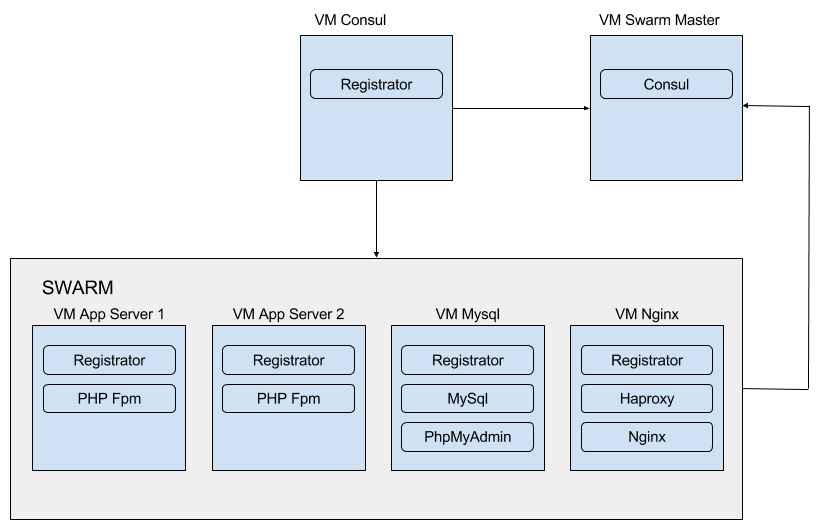
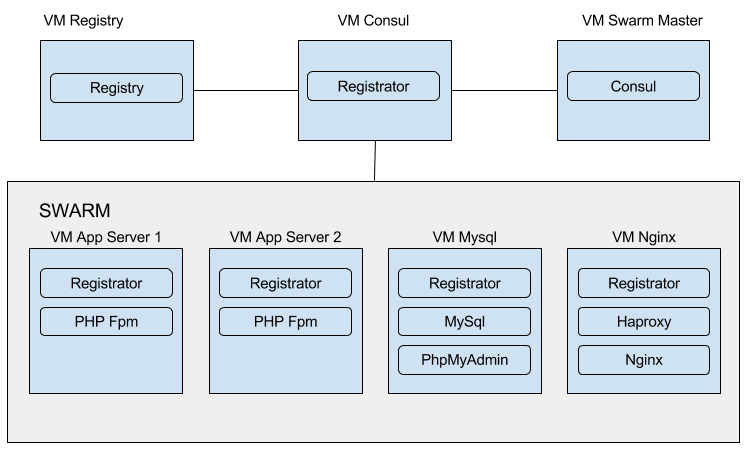
Added docker registry

diff --git a/README.md b/README.md
@@ -7,6 +7,11 @@ SetUp consul:
 $ ./bash/vm_consul
 ```
 
+SetUp registry:
+```
+$ ./bash/wm_registry
+```
+
 SetUp swarm:
 ```
 $ ./bash/vm_swarm
@@ -14,35 +19,41 @@ $ ./bash/vm_swarm
 
 SetUp registrator:
 ```
-$ ./bash/registrator_up
+$ ./bash/up_registrator
+```
+
+Build images:
+```
+$ ./bash/build_images
 ```
 
 SetUp app:
 ```
-$ ./bash/conpose
+$ ./bash/up_compose
+```
+
+Scale app:
+```
+$ ./bash/scale_app (Ex: 1 || 2)
 ```
 
 Open app in browser:
 ```
 $ docker-machine ls
 NAME           ACTIVE   DRIVER       STATE     URL                         SWARM                   DOCKER    ERRORS
-app-server-1   -        virtualbox   Running   tcp://192.168.99.104:2376   swarm-master            v1.13.0
-app-server-2   -        virtualbox   Running   tcp://192.168.99.105:2376   swarm-master            v1.13.0
+app-server-1   -        virtualbox   Running   tcp://192.168.99.105:2376   swarm-master            v1.13.0
+app-server-2   -        virtualbox   Running   tcp://192.168.99.106:2376   swarm-master            v1.13.0
 consul         -        virtualbox   Running   tcp://192.168.99.100:2376                           v1.13.0
-mysql          -        virtualbox   Running   tcp://192.168.99.103:2376   swarm-master            v1.13.0
-nginx          -        virtualbox   Running   tcp://192.168.99.102:2376   swarm-master            v1.13.0
-swarm-master   -        virtualbox   Running   tcp://192.168.99.101:2376   swarm-master (master)   v1.13.0
+mysql          -        virtualbox   Running   tcp://192.168.99.104:2376   swarm-master            v1.13.0
+nginx          -        virtualbox   Running   tcp://192.168.99.103:2376   swarm-master            v1.13.0
+registry       *        virtualbox   Running   tcp://192.168.99.101:2376                           v1.13.0
+swarm-master   -        virtualbox   Running   tcp://192.168.99.102:2376   swarm-master (master)   v1.13.0```
 ```
 
 In this case I have:
-- App 'http://192.168.99.102:8080/index.php'
+- App 'http://192.168.99.103:8080/web/app.php'
 - Consul interface 'http://192.168.99.100:8500'
-- PhpMyAdmin 'http://192.168.99.103:8181'
-
-Scale: 
-```
-$ docker-compose scale php=2
-```
+- PhpMyAdmin 'http://192.168.99.104:8181'
 
 # Single machine:
 
@@ -74,7 +85,5 @@ $ docker-compose scale php=2
 
 # ToDo
 
-1. Add docker registry
-1. Fix scale proablem
-2. MySql [Master/Slave]
-3. Make a fork for single machine config
+1. MySql [Master/Slave]
+2. Make a fork for single machine config
